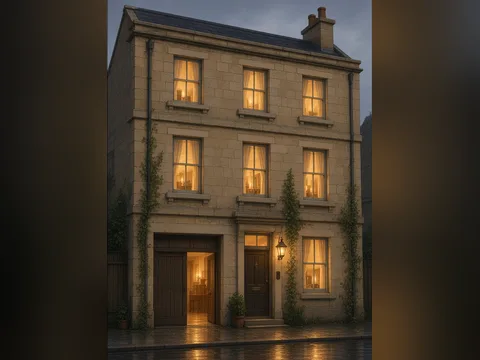
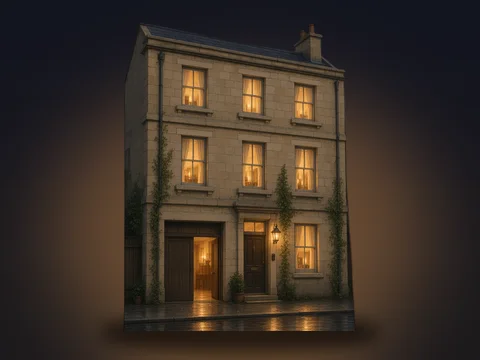
0.1.12: double house prices (40k/130k/300k/1.2M); sheet thumbnails and map cutouts from the same cutout per tier

diff --git a/src/game/wallet.test.ts b/src/game/wallet.test.ts
@@ -1438,13 +1438,13 @@ test("0.1.12 houses: any tier first, step-up costs the difference, the key needs
   const wid = (await canonicalWallet(sql, "hse")).id;
   assert.equal((await applyClientOp(sql, "hse", { kind: "house", city: "austin", tier: "cottage" })).reason, "short-coins");
   assert.equal((await applyClientOp(sql, "hse", { kind: "house", city: "austin", tier: "mansion" })).reason, "unknown");
-  await sql`update player_wallets set coins = 700000 where user_id = ${wid}`;
+  await sql`update player_wallets set coins = 1400000 where user_id = ${wid}`;
   assert.equal((await applyClientOp(sql, "hse", { kind: "house", city: "austin", tier: "row" })).ok, true, "skip ahead");
-  assert.equal((await canonicalWallet(sql, "hse")).wallet.coins, 635000);
+  assert.equal((await canonicalWallet(sql, "hse")).wallet.coins, 1270000);
   assert.equal((await applyClientOp(sql, "hse", { kind: "house", city: "austin", tier: "cottage" })).reason, "owned", "never down");
   assert.equal((await applyClientOp(sql, "hse", { kind: "house", city: "austin", tier: "row" })).ok, true, "same tier is a free replay");
   assert.equal((await applyClientOp(sql, "hse", { kind: "house", city: "austin", tier: "villa" })).ok, true);
-  assert.equal((await canonicalWallet(sql, "hse")).wallet.coins, 635000 - 535000, "villa step-up is 600k - 65k");
+  assert.equal((await canonicalWallet(sql, "hse")).wallet.coins, 1270000 - 1070000, "villa step-up is 1.2M - 130k");
   assert.deepEqual(await housesOf(sql, "hse"), { austin: { tier: "villa" } });
   // The key: no house in London, and Austin needs three correct lamps there today (misses and other cities don't count).
   assert.equal((await applyClientOp(sql, "hse", { kind: "home", city: "london" })).reason, "no-house");

diff --git a/src/components/keyline/HouseSheet.tsx b/src/components/keyline/HouseSheet.tsx
@@ -85,7 +85,7 @@ export function HouseSheet() {
                 <div key={h.id} className={`car-card${h.star ? " is-star" : ""}`} data-testid={`house-${h.id}`}>
                   <img className="house-thumb" src={houseArt(h.id)} alt="" width={160} height={120} loading="lazy" />
                   <div className="flex items-end justify-between gap-3">
-                    <div className="min-w-0">
+                    <div className="min-w-0 flex-1">
                       <p className="font-display text-lg leading-tight">{h.name}</p>
                       <p className="text-sm text-fg-muted">{h.blurb}</p>
                       <p className="car-boost text-sm">
@@ -97,7 +97,7 @@ export function HouseSheet() {
                         <ItemIcon item="coin" size={16} />
                         {(cost ?? h.price).toLocaleString()}
                       </p>
-                      <button type="button" className={`btn ${short ? "btn-quiet" : "btn-primary"} mt-1 px-3 text-xs`} disabled={short} onClick={() => buyHouse(cityId, h.id)}>
+                      <button type="button" className={`btn ${short ? "btn-quiet" : "btn-primary"} mt-1 max-w-[7.5rem] whitespace-normal px-3 text-xs leading-tight`} disabled={short} onClick={() => buyHouse(cityId, h.id)}>
                         {short ? `Need ${((cost ?? 0) - points).toLocaleString()} more` : owned ? "Step up" : "Buy"}
                       </button>
                     </div>

diff --git a/src/game/houses.ts b/src/game/houses.ts
@@ -16,10 +16,10 @@ export type HouseTier = "cottage" | "row" | "town" | "villa";
 export type HouseDef = { id: HouseTier; name: string; blurb: string; price: number; match: Tier; star?: boolean };
 
 export const HOUSES: readonly HouseDef[] = [
-  { id: "cottage", name: "Lamp cottage", blurb: "Red brick, a red door, one brass lantern.", price: 20_000, match: "white" },
-  { id: "row", name: "Row house", blurb: "A sooty terrace with an iron stoop.", price: 65_000, match: "blue" },
-  { id: "town", name: "Townhouse", blurb: "Three floors of limestone and ivy.", price: 150_000, match: "green" },
-  { id: "villa", name: "Villa", blurb: "Sand stucco, a gravel drive, amber in the glass.", price: 600_000, match: "amber", star: true },
+  { id: "cottage", name: "Lamp cottage", blurb: "Old brick, a green door, one brass lantern.", price: 40_000, match: "white" },
+  { id: "row", name: "Row house", blurb: "A sooty terrace with an iron stoop.", price: 130_000, match: "blue" },
+  { id: "town", name: "Townhouse", blurb: "Three floors of limestone and ivy.", price: 300_000, match: "green" },
+  { id: "villa", name: "Villa", blurb: "Sand stucco, a gravel drive, amber in the glass.", price: 1_200_000, match: "amber", star: true },
 ];
 
 /** What the account holds in one city. `items` is room for later (interior decor); v1 never sets it. */

diff --git a/src/game/houses.test.ts b/src/game/houses.test.ts
@@ -5,15 +5,15 @@ import { HOUSES, houseCost, HOUSE_LOTS, isHouseTier } from "./houses.ts";
 import { COIN_CAP } from "./wallet.ts";
 
 test("house price ladder and step-up difference", () => {
-  assert.deepEqual(HOUSES.map((h) => h.price), [20000, 65000, 150000, 600000]);
+  assert.deepEqual(HOUSES.map((h) => h.price), [40000, 130000, 300000, 1200000]);
   assert.deepEqual(HOUSES.map((h) => h.match), ["white", "blue", "green", "amber"]);
   assert.ok(HOUSES.every((h) => !("purse" in h)), "no coin purse");
-  assert.equal(houseCost(null, "villa"), 600000);
-  assert.equal(houseCost("cottage", "town"), 130000);
+  assert.equal(houseCost(null, "villa"), 1200000);
+  assert.equal(houseCost("cottage", "town"), 260000);
   assert.equal(houseCost("town", "town"), null);
   assert.equal(houseCost("villa", "row"), null);
   assert.ok(isHouseTier("row") && !isHouseTier("castle"));
-  assert.ok(COIN_CAP >= 600000);
+  assert.ok(COIN_CAP >= 1200000);
   for (const lot of Object.values(HOUSE_LOTS)) assert.ok(lot.name && Number.isFinite(lot.lat));
 });
 

diff --git a/docs/design/houses.md b/docs/design/houses.md
@@ -2,7 +2,7 @@
 
 Design only, for the version after 0.1.9. Branch `wip/houses-design`, cut from `39e6a6a` (package `0.1.9`, car paint). Nothing here changes the game, the wallet, or `APP_VERSION`.
 
-> **As built in 0.1.12 (supersedes the purse sections below).** Ryan dropped the daily coin purse: turning the key pays **no coin**. It hangs the tier’s match (white / blue / green / amber), once per city per that city’s local day, after any three correct lamps in that city today (market lanterns count). Sign-in required; guests can’t buy. `COIN_CAP` is now 5,000,000 (a first sync still carries at most 250,000). The house is drawn on the map at its lot at building scale and opens the sheet when tapped. Ledger keys: `house:<city>:<tier>` and `hook:<city>:<local day>`; there is no `home:` row.
+> **As built in 0.1.12 (supersedes the purse sections below).** Prices doubled (cottage 40,000 · row 130,000 · townhouse 300,000 · villa 1,200,000; a step-up is still the difference — the hours table below predates this and is at the old prices). Ryan dropped the daily coin purse: turning the key pays **no coin**. It hangs the tier’s match (white / blue / green / amber), once per city per that city’s local day, after any three correct lamps in that city today (market lanterns count). Sign-in required; guests can’t buy. `COIN_CAP` is now 5,000,000 (a first sync still carries at most 250,000). The house is drawn on the map at its lot at building scale and opens the sheet when tapped. Ledger keys: `house:<city>:<tier>` and `hook:<city>:<local day>`; there is no `home:` row.
 
 Mockups (phone 390×844, plus one desktop) are rendered from the game’s tokens, type, and real sprites. The four exteriors are new paintings in the same brush as the v2 scouts and the v3 cars.
 
@@ -83,10 +83,10 @@ Four tiers. Full price if it is your first house in that city. Step-up is the di
 
 | Tier | Price | Step-up from the one below | Match on the hook |
 | --- | ---: | ---: | --- |
-| Lamp cottage | 20,000 | — | white |
-| Row house | 65,000 | 45,000 | blue |
-| Townhouse | 150,000 | 85,000 | green |
-| Villa | 600,000 | 450,000 | amber |
+| Lamp cottage | 40,000 | — | white |
+| Row house | 130,000 | 90,000 | blue |
+| Townhouse | 300,000 | 170,000 | green |
+| Villa | 1,200,000 | 900,000 | amber |
 
 The house pays no coin back. You buy it because you want the door, not because it prints coin.
 
@@ -190,7 +190,7 @@ Grade rows today store `pi` (poi id) but not the city. `poiCity()` covers named 
 1. **The 250,000 cap.** Villa at 600,000 is unbuyable for the same reason the Roadster, the Roadster 2.0, and the Penguin are. Ship the villa as a listed price that waits, or hold it out of v1 until `COIN_CAP` moves?
 2. **Lots.** This pass did not bake 15 OSM doors. Confirm the rule: nearest `shop=estate_agent` or a house, inside 800 m of spawn, door on the walk, `qa:stands`. What should a city do when nothing qualifies?
 3. **Whose midnight.** The purse is once per UTC day so two cities cannot both pay. The match follows the city’s local midnight, like lamp rests. Should the purse follow the city too, with an explicit “one purse per account per UTC day” still on top?
-4. **Skipping tiers.** You can buy the townhouse first at 150,000, or buy the cottage and pay 45,000 then 85,000. Confirm skip-ahead is allowed, rather than a forced ladder like market lights.
+4. **Skipping tiers.** You can buy the townhouse first at 300,000, or buy the cottage and pay 90,000 then 170,000. Confirm skip-ahead is allowed, rather than a forced ladder like market lights.
 5. **Second cities.** Full price again, and no stacked purses. Is one purse a day too stingy once someone owns three doors, or is that the point of the anti-tour rule?
 6. **The three lamps.** Named pois via `poiCity`, or any correct grade while the server’s city is that city (needs `c` on the grade detail)? Do the three market lanterns count?
 7. **The drive.** The picture is whatever `carOn` is, in its paint. Confirm there is not a separately parked car. Empty drive when you are on the city cab.
